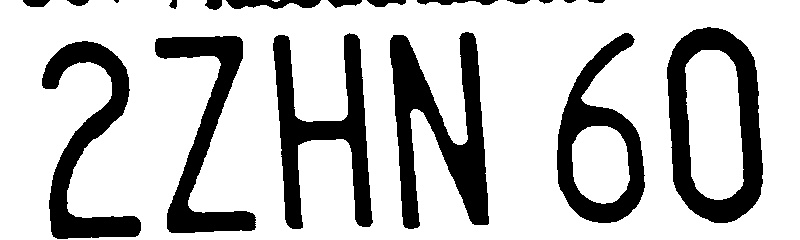
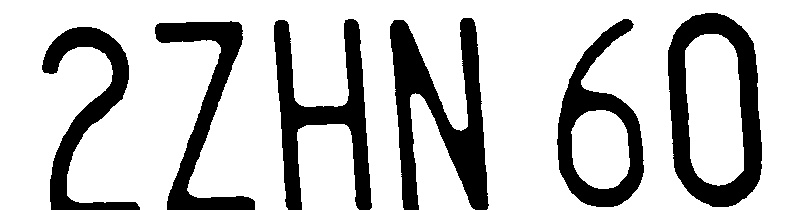
OCR finished

diff --git a/Script/LicenseDetect.py b/Script/LicenseDetect.py
@@ -3,6 +3,7 @@ import numpy as np
 import imutils
 
 import glob
+from LicenseOCR import licenseOCR
 
 def sort(location):
     ySorted = sorted(location, key=(lambda x: x[1]))
@@ -40,7 +41,7 @@ def licenseDetect(captureTime, imagePath):
         originalPoints = np.float32(sort([location[0][0], location[1][0], location[2][0], location[3][0]]))
         mappedPoints = np.float32([[0, 0], [800, 0], [0, 400], [800, 400]])
         transformMatrix = cv2.getPerspectiveTransform(originalPoints, mappedPoints)
-        transformed = cv2.warpPerspective(img, transformMatrix, (800, 400))[80:320, 0:800]
+        transformed = cv2.warpPerspective(img, transformMatrix, (800, 400))[95:305, 0:800]
         cv2.imwrite(transformedPath, transformed)
         transformedGray = cv2.cvtColor(transformed, cv2.COLOR_BGR2GRAY)
         equalized = cv2.equalizeHist(transformedGray)
@@ -51,7 +52,8 @@ def licenseDetect(captureTime, imagePath):
     except:
         return
 
-for img in glob.glob(r"/home/pi/PiSpeedCamera/PiCameraImage/*.jpg"):
-    licenseDetect(img[37:-4], img)
+# for img in glob.glob(r"/home/pi/PiSpeedCamera/PiCameraImage/*.jpg"):
+#     capturedTime, croppedImagePath = licenseDetect(img[37:-4], img)
+#     licenseOCR(capturedTime, croppedImagePath)    
 
 # tesseract /home/pi/PiSpeedCamera/ProcessImage/2021-12-01_14:22:17_4Cropped.jpg /home/pi/PiSpeedCamera/ProcessImage/ocr -l eng -psm 7

diff --git a/Script/LicenseOCR.py b/Script/LicenseOCR.py
@@ -1,2 +1,17 @@
+import os
+import re
+
 def licenseOCR(captureTime, imagePath):
-    pass
+    print("OCR Image", imagePath)
+    cmd = "tesseract " + imagePath + " /home/pi/PiSpeedCamera/ProcessImage/" + captureTime + "_5OCRResult" + " -l eng -psm 7 >> /dev/null"
+    os.system(cmd)
+
+    OCRPath = "/home/pi/PiSpeedCamera/ProcessImage/" + captureTime + "_5OCRResult.txt"
+    with open(OCRPath) as f:
+        # read the OCR result into one line and remove spaces
+        OCRMsg = f.read().replace(" ", "").replace("\n", "")
+        
+        # only preserve capital letters and digits
+        detectedPlate = re.sub(u"([^\u0030-\u0039\u0041-\u005a])", "", OCRMsg)
+    
+    print("OCR Result:", detectedPlate)
